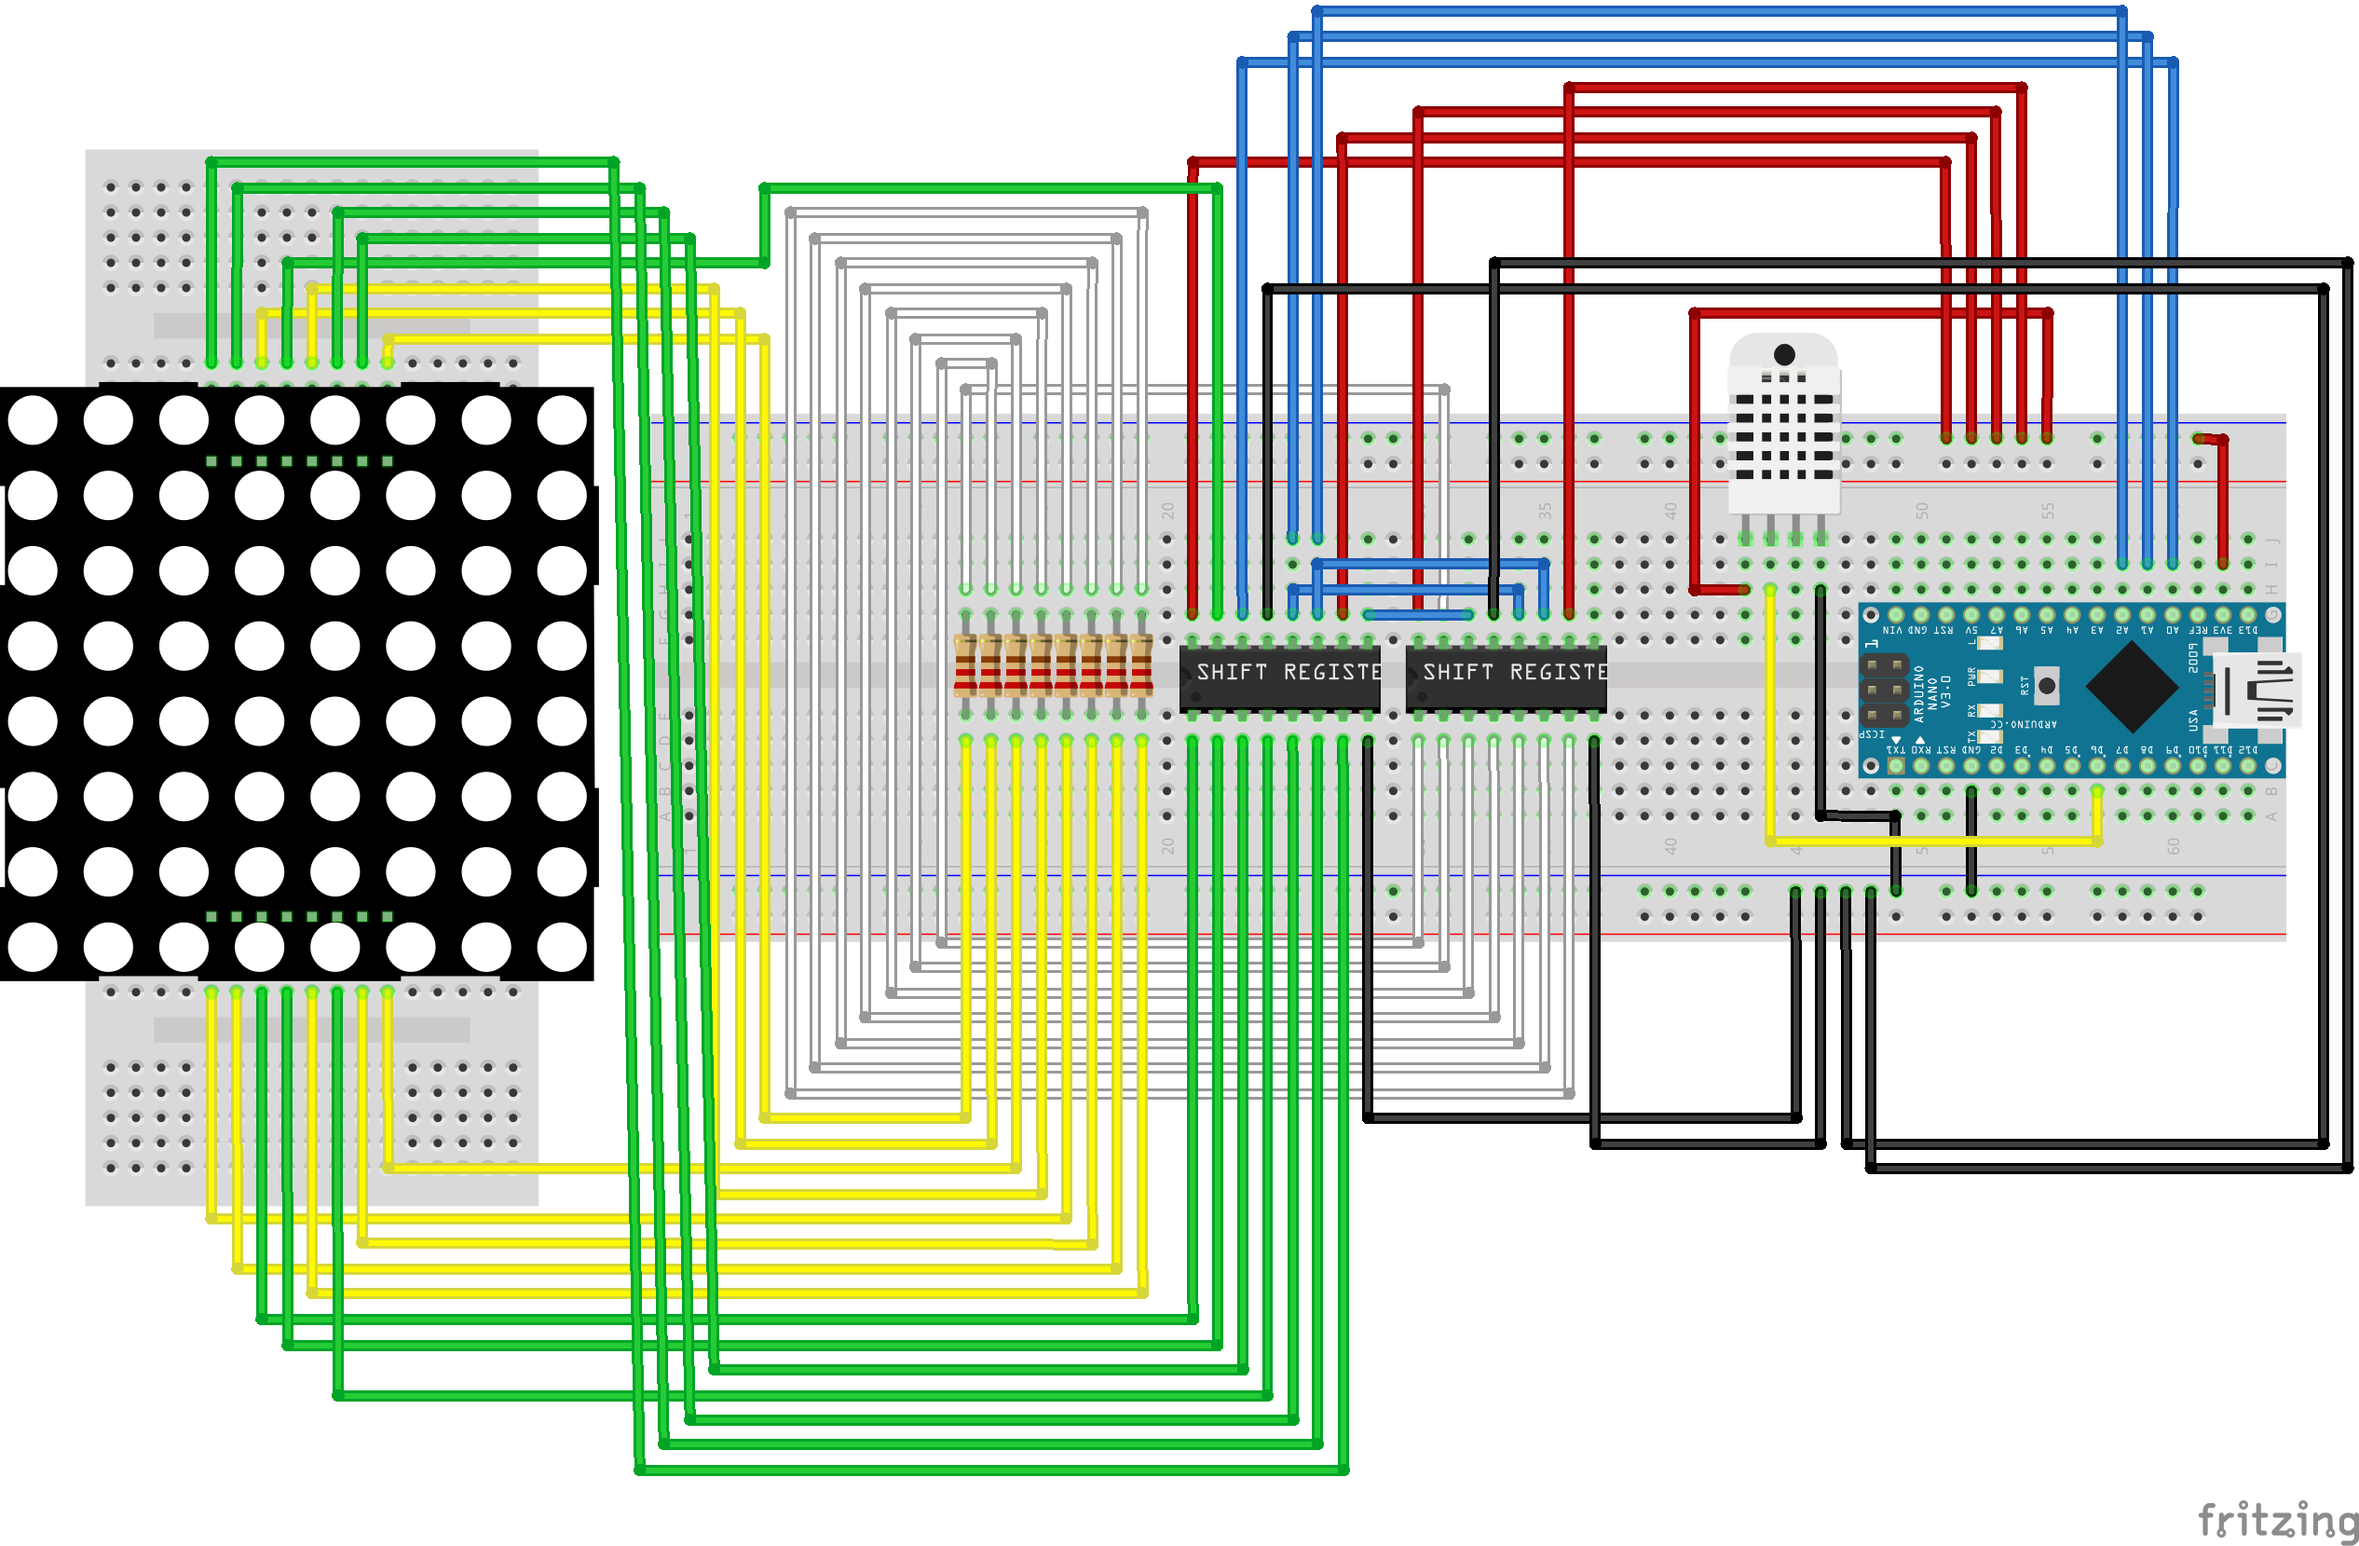
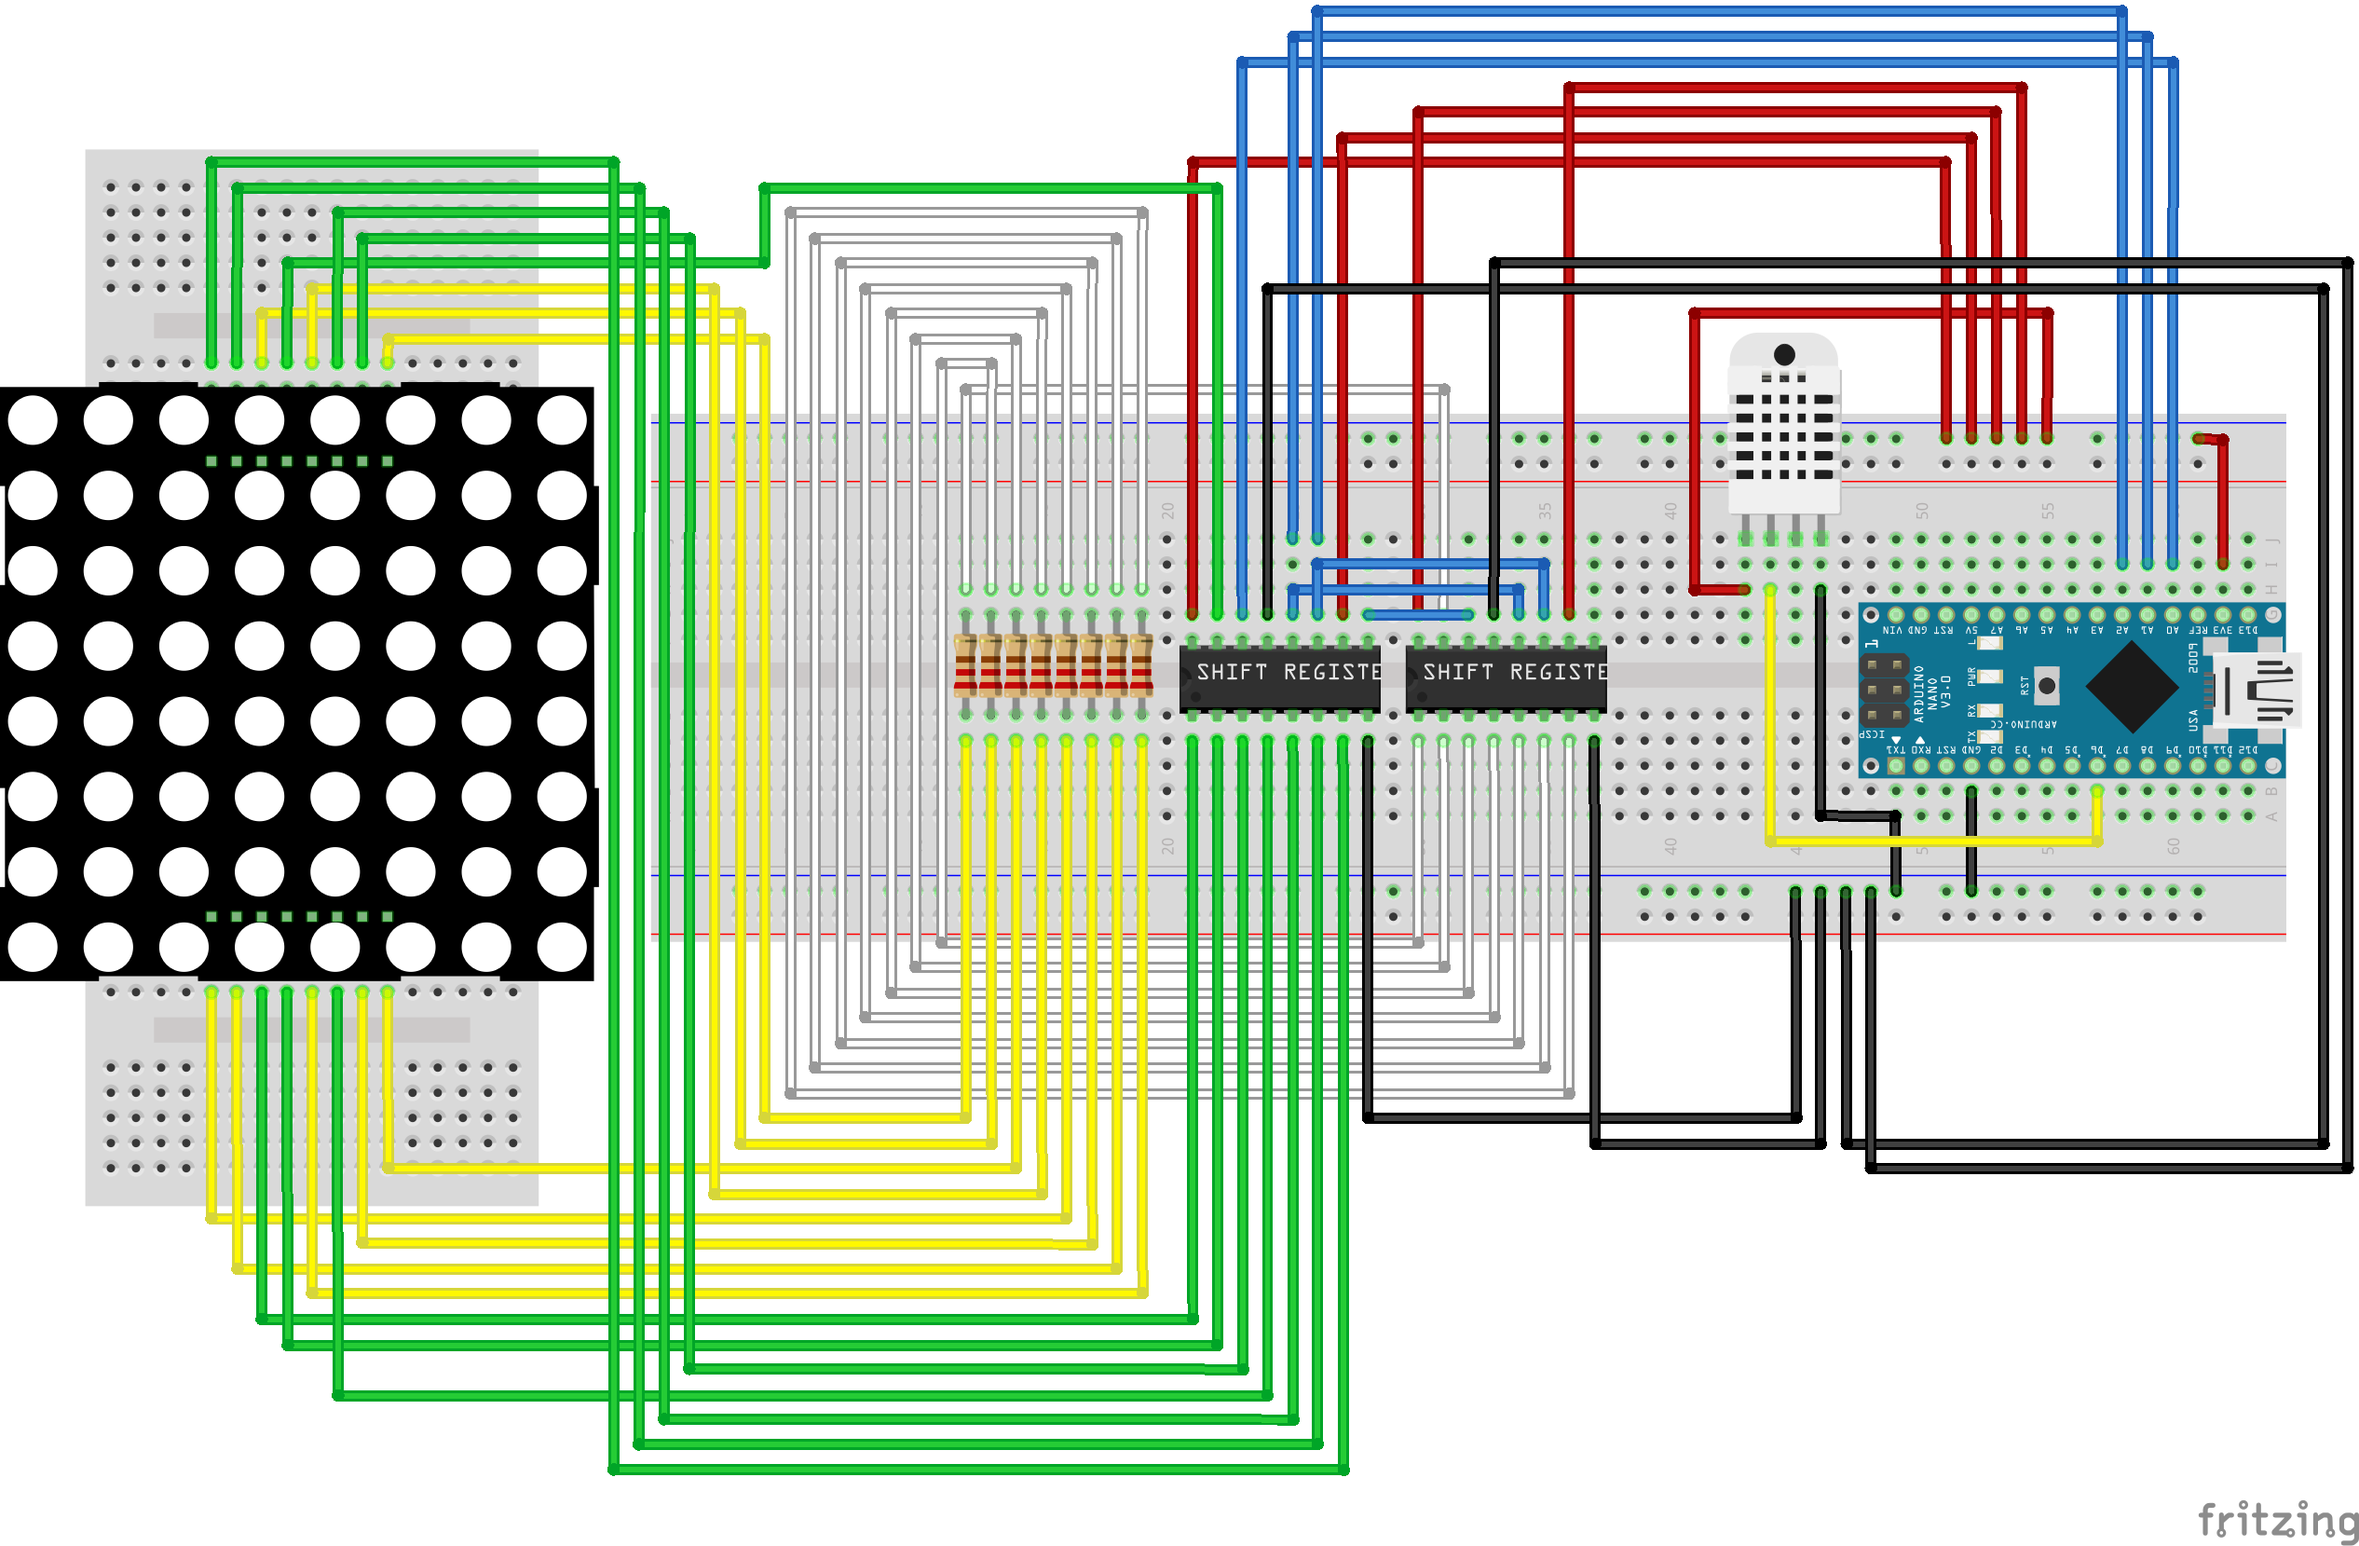
docs: setup image

Changed region(s): [[0.2496, 0.1537, 0.312, 0.953]]

diff --git a/EI/README.md b/EI/README.md
@@ -38,7 +38,7 @@ Deze video is ook te vinden op **Youtube**:
 
 [![Eindopdracht - Show Your Moves - Schema](https://raw.githubusercontent.com/maartenpaauw/IMTHE1/master/EI/assets/fritzing/schema.png)](https://raw.githubusercontent.com/maartenpaauw/IMTHE1/master/EI/assets/fritzing/schema.png)
 
-***LET OP:*** *Het programma **Fritzing** had geen DHT11 component. Daarom heb ik een component gepak dat het meest in de buurt komt. Op het component, dat in mijn IMTHE-Box zit, is een resistor van de data pin naar de 5v5 pin gesoldeerd. Deze resistor heb ik weggelaten in mijn Fritzing schema.*
+***LET OP:*** *Het programma **Fritzing** had geen DHT11 component. Daarom heb ik een component gepak dat het meest in de buurt komt. Op het component, dat in mijn IMTHE-Box zit, is een resistor van de data pin naar de 5v5 pin gesoldeerd. Deze resistor heb ik weggelaten in mijn Fritzing schema. Net als bij opdracht 3.1 is er in het programma **Fritzing** geen kleine 8×8 Matrix te vinden. Ik heb daarom heb ik een grote gepakt en deze aangesloten op een appart breadboard zodat de pinnen van het component te verbinden zijn met de shift registers.*
 
 Het **Fritzing** schema kan ook gedownload worden via de volgende link:
 
